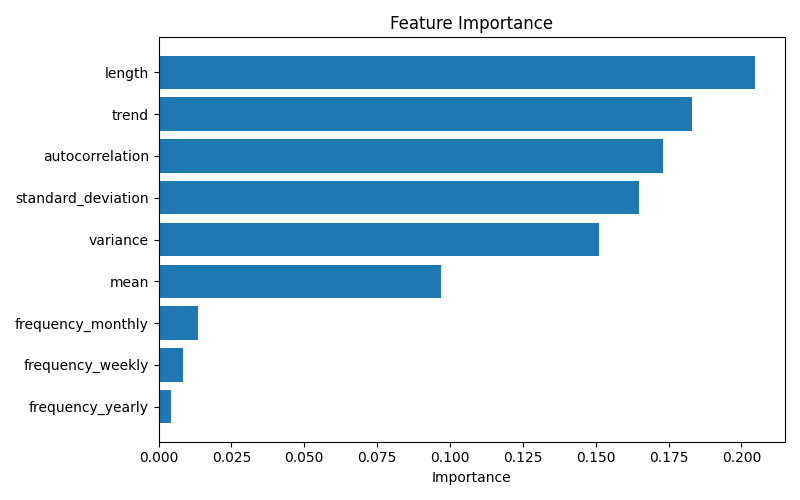
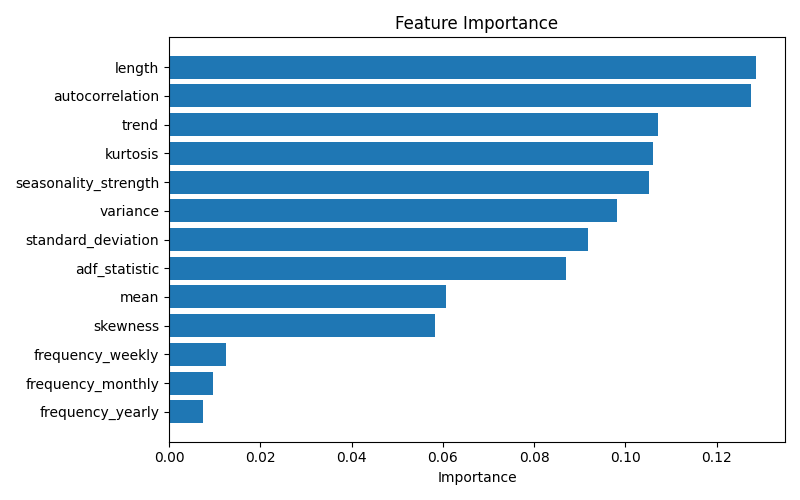
Updated Code

diff --git a/results/scripts/classification_summary.py b/results/scripts/classification_summary.py
@@ -1,0 +1,102 @@
+from pathlib import Path
+import pandas as pd
+import matplotlib.pyplot as plt
+
+from sklearn.model_selection import train_test_split
+from sklearn.ensemble import RandomForestClassifier
+from sklearn.metrics import classification_report, accuracy_score
+
+# Project root
+root = Path(__file__).resolve().parents[2]
+
+# Load meta dataset
+path = root / "data" / "processed" / "meta_dataset.csv"
+
+df = pd.read_csv(path)
+
+# Features and labels
+X = df.drop(columns=[
+    "best_model",
+    "rmse",
+    "rmse_arima",
+    "rmse_prophet"
+])
+
+# Convert categorical frequency column
+X = pd.get_dummies(X, columns=["frequency"])
+
+y = df["best_model"]
+
+# Train-test split
+X_train, X_test, y_train, y_test = train_test_split(
+    X,
+    y,
+    test_size=0.2,
+    random_state=42
+)
+
+# Train Random Forest
+model = RandomForestClassifier(random_state=42)
+model.fit(X_train, y_train)
+
+# Predictions
+y_pred = model.predict(X_test)
+
+# Accuracy
+accuracy = accuracy_score(y_test, y_pred)
+
+# Classification report
+report = classification_report(
+    y_test,
+    y_pred,
+    output_dict=True
+)
+
+# Summary dataframe
+summary = pd.DataFrame({
+    "Metric": [
+        "Accuracy",
+        "Precision",
+        "Recall",
+        "F1-score"
+    ],
+    "Value": [
+        round(accuracy, 4),
+        round(report["weighted avg"]["precision"], 4),
+        round(report["weighted avg"]["recall"], 4),
+        round(report["weighted avg"]["f1-score"], 4),
+    ]
+})
+
+# Print table
+print(summary)
+
+# Generate table image
+fig, ax = plt.subplots(figsize=(5, 2))
+
+ax.axis('off')
+
+table = ax.table(
+    cellText=summary.values,
+    colLabels=summary.columns,
+    loc='center'
+)
+
+table.auto_set_font_size(False)
+table.set_fontsize(10)
+table.scale(1.2, 1.5)
+
+# Save image
+save_path = root / "results" / "plots" / "classification_results_table.png"
+
+save_path.parent.mkdir(parents=True, exist_ok=True)
+
+plt.savefig(
+    save_path,
+    bbox_inches='tight',
+    dpi=300
+)
+
+plt.close()
+
+print(f"Classification table saved at: {save_path}")

diff --git a/results/scripts/best_model_distribution.py b/results/scripts/best_model_distribution.py
@@ -1,0 +1,51 @@
+from pathlib import Path
+import pandas as pd
+import matplotlib.pyplot as plt
+
+# Project root
+root = Path(__file__).resolve().parents[2]
+
+# Load meta dataset
+path = root / "data" / "processed" / "meta_dataset.csv"
+
+df = pd.read_csv(path)
+
+# Count best models
+counts = df["best_model"].value_counts()
+
+# Plot
+plt.figure(figsize=(6, 6))
+
+plt.pie(
+    counts.values,
+    labels=counts.index,
+    autopct="%1.1f%%",
+    startangle=90
+)
+
+plt.title("Best Model Distribution")
+
+# Save graph
+save_path = (
+    root /
+    "results" /
+    "plots" /
+    "best_model_distribution.png"
+)
+
+save_path.parent.mkdir(
+    parents=True,
+    exist_ok=True
+)
+
+plt.savefig(
+    save_path,
+    dpi=300,
+    bbox_inches="tight"
+)
+
+plt.show()
+
+print(
+    f"Best model distribution graph saved at: {save_path}"
+)

diff --git a/results/scripts/rmse_comparison.py b/results/scripts/rmse_comparison.py
@@ -1,0 +1,34 @@
+from pathlib import Path
+import pandas as pd
+import matplotlib.pyplot as plt
+
+# Project root
+root = Path(__file__).resolve().parents[2]
+
+# Load meta dataset
+path = root / "data" / "processed" / "meta_dataset.csv"
+
+df = pd.read_csv(path)
+
+# Average RMSE by frequency
+summary = df.groupby("frequency")[["rmse_arima", "rmse_prophet"]].mean()
+
+# Plot
+summary.plot(kind="bar", figsize=(8, 5))
+
+plt.title("ARIMA vs Prophet RMSE Comparison")
+plt.xlabel("Dataset Frequency")
+plt.ylabel("Average RMSE")
+plt.xticks(rotation=0)
+
+# Save plot
+save_path = root / "results" / "plots" / "rmse_comparison.png"
+
+save_path.parent.mkdir(parents=True, exist_ok=True)
+
+plt.tight_layout()
+plt.savefig(save_path)
+
+plt.show()
+
+print("RMSE comparison graph generated.")

diff --git a/results/scripts/summary.py b/results/scripts/summary.py
@@ -1,0 +1,12 @@
+from pathlib import Path
+import pandas as pd
+
+root = Path(__file__).resolve().parents[2]
+
+path = root / "data" / "processed" / "meta_dataset.csv"
+
+df = pd.read_csv(path)
+
+summary = df.groupby("frequency")[["rmse_arima", "rmse_prophet"]].mean()
+
+print(summary)